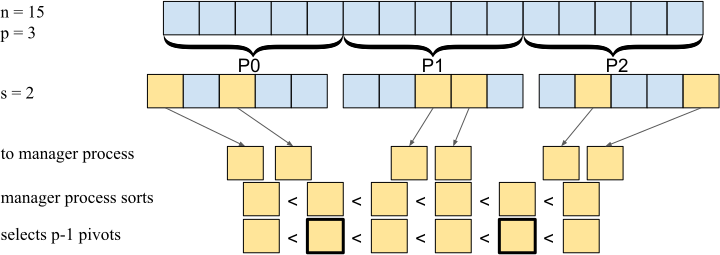
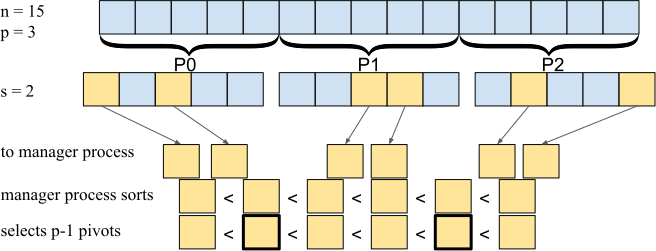
add parallel qs image

diff --git a/report/project_report.tex b/report/project_report.tex
@@ -228,6 +228,18 @@ The algorithm starts with the input sequence of size $n$ evenly distributed in $
 \item Every node collects all the local partition it received and sorts them locally, resulting in a distributed sorted permutation of the original input sequence.
 \end{itemize}
 
+\begin{figure}[H]
+\centering
+\begin{minipage}{.49\linewidth}
+\includegraphics[width=\linewidth]{par-qs-1.png}
+\end{minipage}
+\begin{minipage}{.49\linewidth}
+\includegraphics[width=\linewidth]{par-qs-2.png}
+\end{minipage}
+\caption{An illustration of how the distributed sample sorting works. On the left, the pivot selection process is shown, where each processor selects 2 candidate pivots (yellow) from the data they locally hold, then the manager process sorts all the candidate pivots to pick 2 pivots (yello with thick black border). On the right, all of the selected pivots are passed to each processor, who $p$-partition the data with these pivots (represented with shades of green) and pass each partition to the appropriate processor. Finally each processor locally sorts the accumulated partitions it received.}
+\label{fig:par-qs}
+\end{figure}
+
 The challenges in a distributed sorting algorithm like this is to optimizing the communication of the network, which usually have a much higher cost than local operations.
 
 \section{Computational geometry and the convex hull problem}
